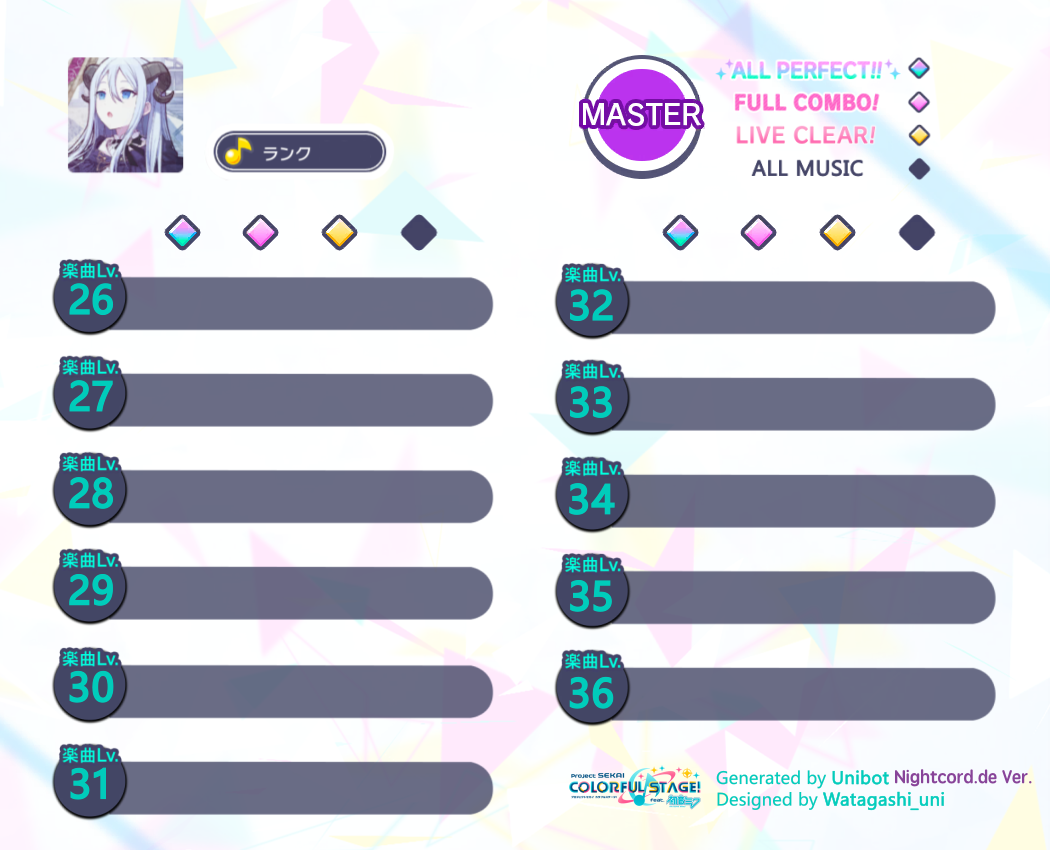
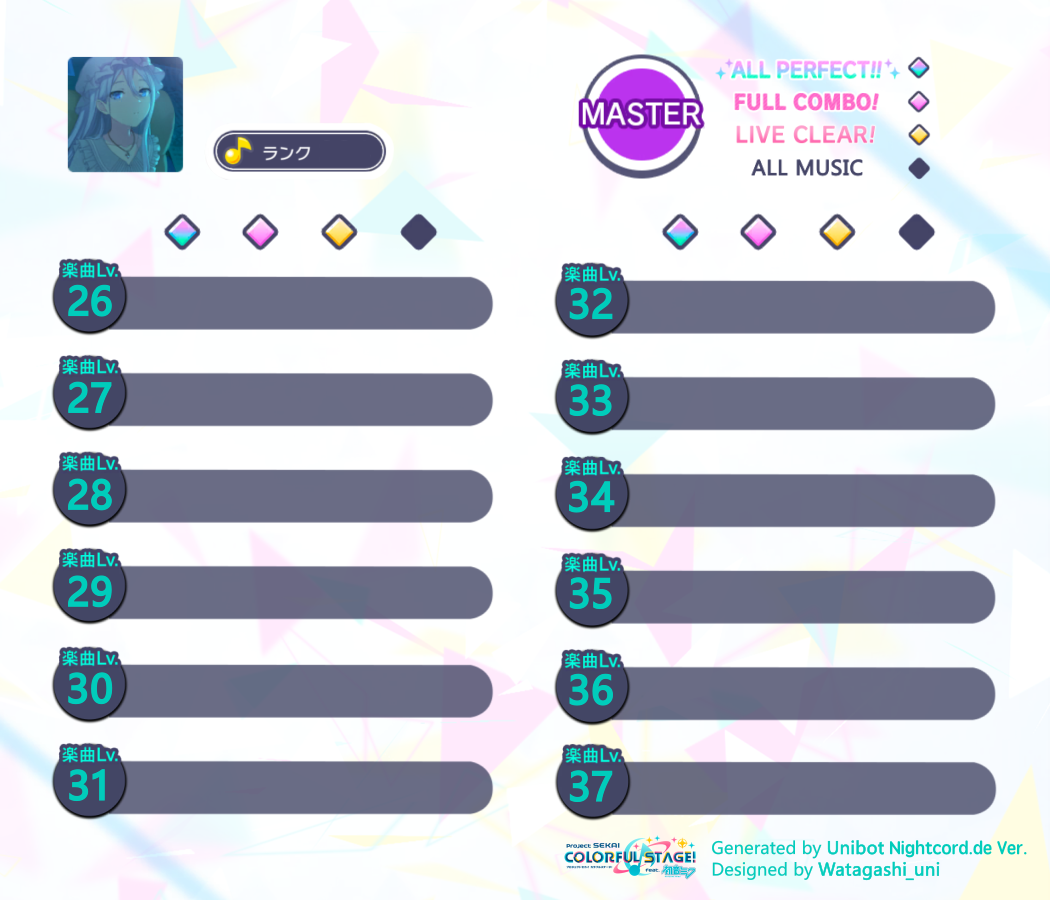
Update 37

diff --git a/modules/profile.py b/modules/profile.py
@@ -43,7 +43,7 @@ class UserProfile(object):
         self.highScore = 0
         self.masterscore = {}
         self.expertscore = {}
-        for i in range(26, 37):
+        for i in range(26, 38):
             self.masterscore[i] = [0, 0, 0, 0]
         for i in range(21, 32):
             self.expertscore[i] = [0, 0, 0, 0]
@@ -233,7 +233,11 @@ def pjsk_process(userid, private=False, diff='master', server='jp'):
         text_coordinate = (int(183 + 3 * 78 - text_width[0] / 2), int(295 + 97 * i - text_width[1] / 2))
         draw.text(text_coordinate, str(profile.masterscore[i + levelmin][3]), fill=(108, 237, 226), font=font_style)
 
-    for i in range(0, 5):
+    if diff == 'master':
+        secondRawCount = 6
+    else:
+        secondRawCount = 5
+    for i in range(0, secondRawCount):
         text_width = font_style.getsize(str(profile.masterscore[i + levelmin + 6][0]))
         text_coordinate = (int(683 - text_width[0] / 2), int(300 + 96.4 * i - text_width[1] / 2))
         draw.text(text_coordinate, str(profile.masterscore[i + levelmin + 6][0]), fill=(228, 159, 251), font=font_style)

diff --git a/download.py b/download.py
@@ -157,10 +157,10 @@ if __name__ == '__main__':
     # clean_cache()
     update_master_data()
     detect_play_data()
-    update_all_trans()
+    # update_all_trans()
     scheduler = BlockingScheduler()
     scheduler.add_job(update_master_data, 'interval', hours=2, id='update_master_data')
     scheduler.add_job(detect_play_data, 'interval', seconds=300, id='play_info_check')
     # scheduler.add_job(clean_cache, 'interval', seconds=300, id='clean_cache')
-    scheduler.add_job(update_all_trans, 'interval', hours=2, id='update_all_trans')
+    # scheduler.add_job(update_all_trans, 'interval', hours=2, id='update_all_trans')
     scheduler.start()

diff --git a/modules/image.py b/modules/image.py
@@ -17,7 +17,7 @@ class Image:
                 filename = e.filename.replace(asset_path + '/', '')
                 if not os.path.exists(os.path.abspath(os.path.join(e.filename, '..'))):
                     os.makedirs(os.path.abspath(os.path.join(e.filename, '..')))
-                resp = requests.get('https://assets.pjsek.ai/file/pjsekai-assets/%s' % filename)
+                resp = requests.get('https://assets.unipjsk.com/%s' % filename)
                 if resp.status_code == 200:
                     with open(e.filename, 'wb') as f:
                         f.write(resp.content)

diff --git a/main.py b/main.py
@@ -92,10 +92,7 @@ def profile(update: Update, context, server):
     if not user_id.isdigit():
         update.message.reply_text('玩家ID必须为数字')
         return
-    try:
-        update.message.reply_photo(pjsk_profile(user_id, False, server))
-    except Exception as e:
-        update.message.reply_text('出了点毛病，可能是没找着')
+    update.message.reply_photo(pjsk_profile(user_id, False, server))
 
 
 @send_typing_action
